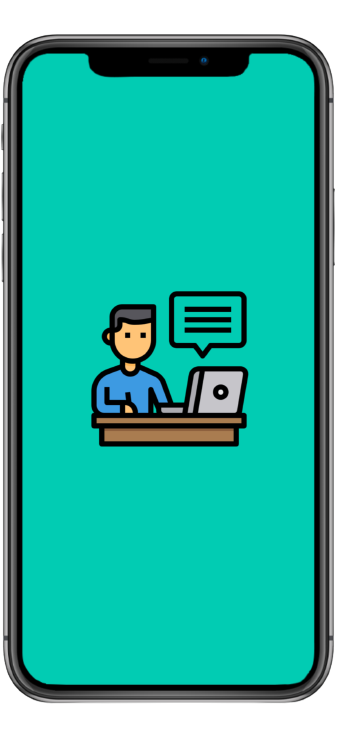
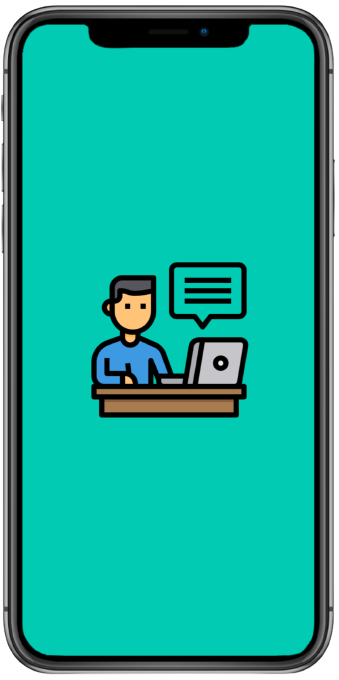
phone images update

diff --git a/main.js b/main.js
@@ -52,7 +52,7 @@ const phoneTexture = new THREE.TextureLoader().load("phoneEcommerce.png");
 const phoneMaterial = new THREE.MeshBasicMaterial({ map: phoneTexture, transparent:true });
 const phoneMesh = new THREE.Mesh(phoneGeometry, phoneMaterial);
 
-phoneMesh.position.set(-5.15, .25, 2);
+phoneMesh.position.set(-5.25, .0, 1.95);
 phoneMesh.rotation.set(.125, .25, .25);
 phoneMesh.scale.set(.339, .735, .339)
 scene.add(phoneMesh);
@@ -63,8 +63,8 @@ const phoneTexture2 = new THREE.TextureLoader().load("phoneBlog.png");
 const phoneMaterial2 = new THREE.MeshBasicMaterial({ map: phoneTexture2, transparent:true });
 const phoneMesh2 = new THREE.Mesh(phoneGeometry2, phoneMaterial2);
 
-phoneMesh2.position.set(-4.9, .2, 2);
-phoneMesh2.rotation.set(.125, .25, .25);
+phoneMesh2.position.set(-4.9, .2, 2.25);
+phoneMesh2.rotation.set(.125, -.25, .15);
 phoneMesh2.scale.set(.339, .735, .339)
 scene.add(phoneMesh2);
 phoneMesh2.visible=false
@@ -74,8 +74,8 @@ const phoneTexture3 = new THREE.TextureLoader().load("phoneNews.png");
 const phoneMaterial3 = new THREE.MeshBasicMaterial({ map: phoneTexture3, transparent:true });
 const phoneMesh3 = new THREE.Mesh(phoneGeometry3, phoneMaterial3);
 
-phoneMesh3.position.set(-4.65, .15, 2);
-phoneMesh3.rotation.set(.125, .25, .25);
+phoneMesh3.position.set(-4.55, .225, 2);
+phoneMesh3.rotation.set(-.25, .25, -.25);
 phoneMesh3.scale.set(.339, .735, .339)
 scene.add(phoneMesh3);
 phoneMesh3.visible=false
@@ -89,7 +89,6 @@ const glassMaterial = new THREE.MeshPhysicalMaterial({
     thickness: 5,
 })
 
-
 /**
  * Lights
  */
@@ -100,6 +99,7 @@ light.position.set(0, 4, 7);
 light.target.position.set(0, 0, 0);
 scene.add(light);
 scene.add(light.target);
+console.log(light.intensity)
 
 
 color = 0xC724B1
@@ -130,6 +130,65 @@ setTimeout(function() {
 /**
  * Animations
  */
+
+//Phones
+function rotatePhoneAnimation()
+{
+
+    if (phoneMesh.rotation.y <= .5 && rotationPhoneUp == true)
+    {
+        phoneMesh.rotation.y += .0025
+        phoneMesh.rotation.x += .00125
+
+    }else 
+    {
+        rotationPhoneUp = false
+        phoneMesh.rotation.y -= .0025
+        phoneMesh.rotation.x -= .00125
+
+        if (phoneMesh.rotation.y <= 0.05)
+        {
+            rotationPhoneUp = true
+        }
+    }
+    if (phoneMesh2.rotation.y <= .125 && rotationPhone2Up == true)
+    {
+        phoneMesh2.rotation.y += .0025
+        phoneMesh2.rotation.x += .00125
+
+    }else 
+    {
+        rotationPhone2Up = false
+        phoneMesh2.rotation.y -= .0025
+        phoneMesh2.rotation.x -= .00125
+
+        if (phoneMesh2.rotation.y <= -0.5)
+        {
+            rotationPhone2Up = true
+        }
+    }
+
+    if (phoneMesh3.rotation.y <= .125 && rotationPhone3Up == true)
+    {
+        phoneMesh3.rotation.y += .0025
+        phoneMesh3.rotation.x += .00125
+
+    }else 
+    {
+        rotationPhone3Up = false
+        phoneMesh3.rotation.y -= .0025
+        phoneMesh3.rotation.x -= .00125
+
+        if (phoneMesh3.rotation.y <= -0.5)
+        {
+            rotationPhone3Up = true
+        }
+    }
+
+}
+
+
+// Computer
 function upAndDownAnimation()
 {
     var computer = scene.getObjectByName( "Sketchfab_Scene" );
@@ -258,9 +317,9 @@ function section2Animation(reverse)
         phoneMesh.visible = false
         phoneMesh2.visible = false
         phoneMesh3.visible = false
-        phoneMesh.position.set(-5.15, .25, 2);
-        phoneMesh2.position.set(-4.9, .2, 2);
-        phoneMesh3.position.set(-4.65, .15, 2);
+        phoneMesh.position.set(-5.25, .0, 1.95);
+        phoneMesh2.position.set(-4.9, .2, 2.25);
+        phoneMesh3.position.set(-4.55, .225, 2);
         if (computer.scale.x < 1)
         {
             animationConcluded = false
@@ -270,6 +329,12 @@ function section2Animation(reverse)
             computer.position.x -= 0.0075
             computer.position.y += 0.05
             computer.rotation.y += 0.035
+
+            bgMesh.material.color.r += 0.04
+            bgMesh.material.color.g += 0.04
+            bgMesh.material.color.b += 0.04
+            light.intensity = 2
+            light2.intensity = 2
         }else
         {
             actualSection = 2
@@ -318,6 +383,12 @@ function section2Animation(reverse)
             phoneMesh.position.x += .06
             phoneMesh2.position.x += .06
             phoneMesh3.position.x += .06
+
+            bgMesh.material.color.r -= 0.02
+            bgMesh.material.color.g -= 0.02
+            bgMesh.material.color.b -= 0.02
+            light.intensity = 10
+            light2.intensity = 100
         }else
         {
             actualSection = 3
@@ -385,6 +456,12 @@ function section3Animation(reverse)
             phoneMesh2.position.x += .095
             phoneMesh3.position.x += .095
             
+            bgMesh.material.color.g -= 0.03
+            bgMesh.material.color.b -= 0.06
+            light2.intensity = 100
+
+            var oldLightColor = { isColor: true, r: 0.7803921568627451, g: 0.1411764705882353, b: 0.6941176470588235 }
+            light2.color = oldLightColor
         }else
         {
             actualSection = 3
@@ -433,9 +510,9 @@ function section3Animation(reverse)
         phoneMesh.visible = false
         phoneMesh2.visible = false
         phoneMesh3.visible = false
-        phoneMesh.position.set(-5.15, .25, 2);
-        phoneMesh2.position.set(-4.9, .2, 2);
-        phoneMesh3.position.set(-4.65, .15, 2);
+        phoneMesh.position.set(-5.25, .0, 1.95);
+        phoneMesh2.position.set(-4.9, .2, 2.25);
+        phoneMesh3.position.set(-4.55, .225, 2);
 
         if (computer.scale.x < 1)
         {
@@ -446,6 +523,14 @@ function section3Animation(reverse)
             computer.position.x -= 0.005
             computer.position.y += 0.0015
             computer.rotation.y -= 0.005
+
+            // bgMesh.material.color.r += 0.04
+            bgMesh.material.color.g += 0.015
+            bgMesh.material.color.b += 0.03
+            var newLightColor = { isColor: true, r: .77, g: .77, b: 2.55 }
+
+            light2.intensity = 2
+            light2.color = newLightColor
 
         }else
         {
@@ -497,6 +582,9 @@ document.body.ontouchmove = function(e){
 
 var computerUp = true
 var rotationUp = true
+var rotationPhoneUp = true
+var rotationPhone2Up = true
+var rotationPhone3Up = true
 
 camera.position.z = 5
 
@@ -524,6 +612,8 @@ function renderScene() {
     rotationUpAnimation();
     
     upAndDownAnimation();
+
+    rotatePhoneAnimation();
     
     if (scroll_command != "no command")
     {

diff --git a/style.css b/style.css
@@ -5,9 +5,16 @@
     font-family: 'Cabin', sans-serif;
 }
 
-html
-{
+html {
     overflow: hidden;
+    height: 100%;
+}
+
+body {
+    height: 100%;
+    overflow: auto;
+    overscroll-behavior-y: none;
+    touch-action:none;
 }
 
 .splashScreen
